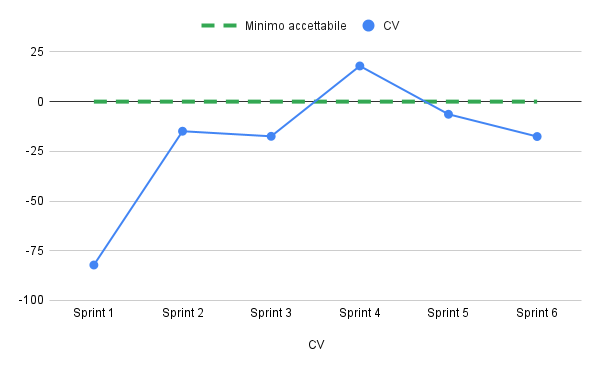
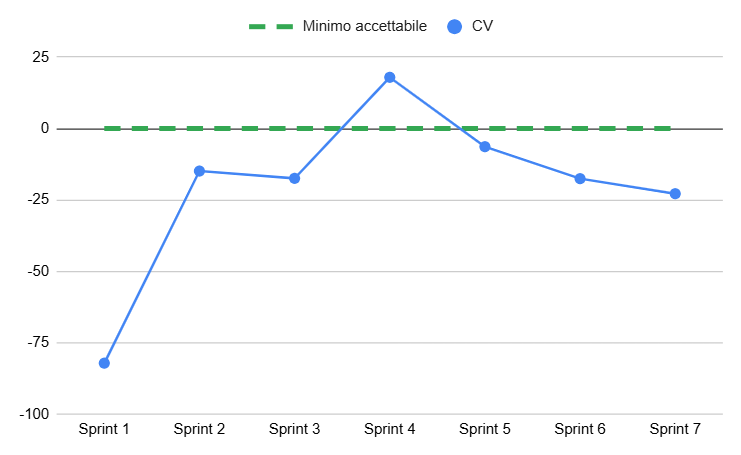
Piano di qualifica - 185 (#199)
* change: aggiornati grafici

* change: changelog, titlepage

* change: aggiunta versione ai documenti

* change: aggiornati commenti

* change: correzione

* Change: add nome vericicatore e update titlepage

---------

diff --git a/Docs/Generali/piano_di_qualifica/05_resoconto.tex b/Docs/Generali/piano_di_qualifica/05_resoconto.tex
@@ -1,7 +1,7 @@
 \newcommand{\Met}[3]{
     \subsubsection{#1}
     \begin{figure}[h!] \centering
-        \includegraphics[scale=0.55]{#2}
+        \includegraphics[scale=0.75]{#2}
         \caption{Proiezione della#1nei vari periodi di progetto}
     \end{figure}
     \subsubsection*{RTB}
@@ -13,9 +13,8 @@
 
 \subsection{Verifica della qualità dei processi}
 In questa sezione sono presentati i risultati dell'attività di verifica svolta per valutare la qualità del processo.\\
-Le misure riportate sono state calcolate utilizzando le formule e i concetti descritti nel documento \textit{Norme di progetto}, oltre ai dati definiti nel documento \textit{Piano di progetto}.
-
-In seguito sono presentati i grafici relativi a diverse metriche significative del processo nei vari sprint.
+Le misure riportate sono state calcolate utilizzando le formule e i concetti descritti nel documento \textit{Norme di progetto v1.0.0}, oltre ai dati definiti nel documento \textit{Piano di progetto v1.0.0}.\\
+Di seguito sono presentati i grafici relativi a diverse metriche significative del processo nei vari sprint.
 
 \Met
 { % METRICA
@@ -37,7 +36,7 @@ In seguito sono presentati i grafici relativi a diverse metriche significative d
     template/images/AC.png
 }
 { % DESCRIZIONE RTB
-    Come il grafico fa notare il confronto con il Planned Value rivela una forte correlazione, suggerendo che le ore e i costi effettivamente impiegati per ogni ruolo sono in linea con le previsioni iniziali.
+    Come si nota dal grafico, Actual Cost e Planned Value hanno una forte correlazione, suggerendo che le ore e i costi effettivamente impiegati per ogni ruolo sono in linea con le previsioni iniziali.
     Ciò indica una pianificazione accurata e una buona esecuzione del progetto.
 }
 
@@ -51,7 +50,7 @@ In seguito sono presentati i grafici relativi a diverse metriche significative d
 { % DESCRIZIONE RTB
     Questo grafico illustra solamente il valore di Earned Value che rappresenta il valore delle attività realizzate nel progetto.
     Da solo rientra tra i valori limite, e rappresenta un valor positivo, ma spesso viene messo a confronto con le altre metriche.
-    Analizzando quindi i 3 grafici di Earned Value, Planned Value e Actual Cost si può notare come siano tutti allineati. 
+    Analizzando quindi i tre grafici di Earned Value, Planned Value e Actual Cost, si può notare come siano tutti allineati. 
     Questo indica una gestione del progetto accurata, con una precisa corrispondenza tra le attività pianificate, quelle effettivamente svolte e i costi sostenuti.
 }
 
@@ -88,8 +87,10 @@ In seguito sono presentati i grafici relativi a diverse metriche significative d
     template/images/CV.png
 }
 { % DESCRIZIONE RTB
-    L'analisi del grafico evidenzia una sovrastima iniziale delle ore necessarie per completare le attività.
-    Con il progredire del progetto, il team ha affinato le proprie stime, acquisendo una maggiore consapevolezza dei tempi di esecuzione e delle competenze individuali.
+    Una Cost Variance negativa indica che il progetto sta spendendo più di quanto previsto. 
+    Ciò è dovuto principalmente al fatto che i ruoli più ricoperti sono quelli di responsabile, 
+    amministratore, e analista che hanno un costo orario superiore alla media.
+    Infatti, nello sprint 4, in cui è stato realizzato il PoC dai programmatore, la Cost Variance è stata positiva.
 }
 
 \Met
@@ -126,7 +127,7 @@ In seguito sono presentati i grafici relativi a diverse metriche significative d
 { % DESCRIZIONE RTB
     Il grafico mostra un iniziale Requirements Stability Index del 100\% in quanto nei primi due periodi il team si è
     concentrato sulla creazione e successivo aggiornamento di un WoW. 
-    È stato solo dal terzo sprint in poi che il team ha iniziato ad analizzare e successivamente raffinare i requisiti, rendendoli più chiari e comprensibili per facilitare le successive fasi di progettazione.
+    È stato solo dal terzo sprint in poi che il team ha iniziato a definire i requisiti.
 }
 
 \Met
@@ -138,7 +139,7 @@ In seguito sono presentati i grafici relativi a diverse metriche significative d
 }
 { % DESCRIZIONE RTB  
     Come mostrato dal grafico il team ha raramente avuto problemi riguardanti la completezza dei documenti.
-    Si può notare che solamente durante lo sprint 3 il team ha avuto delle difficoltà nella redazione del documento \textit{Analisi dei requisiti}.
+    Si può notare che solamente durante lo sprint 3 il team ha avuto delle difficoltà nella redazione del documento \textit{Analisi dei requisiti v1.0.0}.
     In ogni caso, tutti i membri si sono impegnati al massimo per garantire il completamento delle attività assegnate.
 }
 
@@ -152,6 +153,7 @@ In seguito sono presentati i grafici relativi a diverse metriche significative d
 { % DESCRIZIONE RTB
     Come mostra il grafico, l'iniziale carenza di competenze ha limitato la capacità del team di soddisfare tutte le metriche.
     Grazie all'apprendimento continuo e all'introduzione di strumenti automatizzati, il team ha colmato queste lacune apportando delle migliorie ai vari documenti.
+    L'unica metrica non soddisfatta attualmente è MPC6 - Cost Variance.
 }
 
 \Met
@@ -162,15 +164,15 @@ In seguito sono presentati i grafici relativi a diverse metriche significative d
     template/images/RISCHI.png
 }
 { % DESCRIZIONE RTB
-    Il grafico evidenzia una notevole stabilità dei rischi non previsti durante l'intero progetto.
-    Questo è ovviamente un ottimo segno in quanto indica che il gruppo è stato in grado di gestire i rischi in modo efficace e che non sono 
-    emersi nuovi rischi inaspettati.
+    Il grafico evidenzia l'assenza di rischi non previsti durante l'intero progetto.
+    Questo è ovviamente un buon segno in quanto indica che il gruppo è stato in grado 
+    di gestire i rischi in modo efficace e che non sono emersi nuovi rischi inaspettati.
 }
 
 \subsection{Verifica della qualità dei prodotti}
 In questa sezione vengono analizzate le attività svolte per garantire la qualità dei prodotti realizzati.
- Le analisi effettuate comprendono sia i documenti che il software, al fine di garantire un risultato finale che soddisfi i requisiti stabiliti.\\
-Per calcolare le seguenti misure abbiamo utilizzato le formule e le nozioni descritte nel documento di \textit{Norme di progetto}.
+Le analisi effettuate comprendono sia i documenti che il software, al fine di garantire un risultato finale che soddisfi i requisiti stabiliti.\\
+Per calcolare le seguenti misure abbiamo utilizzato le formule e le nozioni descritte nel documento di \textit{Norme di progetto v1.0.0}.
 
 \Met
 { % METRICA
@@ -180,8 +182,10 @@ Per calcolare le seguenti misure abbiamo utilizzato le formule e le nozioni desc
     template/images/GUL.png
 }
 { % DESCRIZIONE RTB
-    L'analisi del grafico conferma che, nelle prime fasi del progetto, l'Indice di Gulpease non ha raggiunto i valori minimi, a causa della mancanza di conoscenze specifiche da parte del team.
-    Solo dopo aver implementato un'automazione per il calcolo dell'indice, è stato possibile migliorarne i risultati nei periodi successivi.
+    L'analisi del grafico conferma che, nelle prime fasi del progetto, l'Indice di Gulpease non ha raggiunto i 
+    valori minimi, a causa della mancanza di conoscenze specifiche da parte del team.
+    Solo dopo aver implementato un'automazione per il calcolo dell'indice, è stato possibile 
+    migliorarne i risultati nei periodi successivi.
 }
 
 \Met
@@ -192,8 +196,10 @@ Per calcolare le seguenti misure abbiamo utilizzato le formule e le nozioni desc
     template/images/ERR-G.png
 }
 { % DESCRIZIONE RTB
-    L'analisi del grafico rivela un numero inizialmente elevato di errori ortografici, in particolare nei documenti \textit{Norme di progetto} e \textit{Piano di progetto}.
-    Tuttavia, si osserva una netta diminuzione di tali errori nei periodi e nei documenti successivi, indicando un miglioramento progressivo nella qualità della scrittura.
+    L'analisi del grafico rivela un numero inizialmente elevato di errori ortografici, 
+    in particolare nei documenti \textit{Norme di progetto v1.0.0} e \textit{Piano di progetto v1.0.0}.
+    Tuttavia, si osserva una netta diminuzione di tali errori nei periodi e nei 
+    documenti successivi, indicando un miglioramento progressivo nella qualità della scrittura.
 }
 
 

diff --git a/Docs/Generali/piano_di_qualifica/titlepage.tex b/Docs/Generali/piano_di_qualifica/titlepage.tex
@@ -17,12 +17,12 @@
 	\rule{0.6\textwidth}{0.4pt}
 	\\[0.5cm]
 	\begin{tabular}{r|l}
-		\textbf{Versione} & 0.10.0\\
+		\textbf{Versione} & 0.11.0\\
 		\textbf{Stato} & in redazione\\
 		\textbf{Uso} & Esterno\\                         
 		\textbf{Approvazione} & -\\                      
-		\textbf{Verifica} & Soranzo Andrea\\ & Chilese Elena\\ & Pincin Matteo \\                         
-		\textbf{Redazione} & Diviesti Filippo \\ & Bergamin Elia \\ & Djossa Edgar \\ & Soranzo Andrea \\ & Pincin Matteo \\ 
+		\textbf{Verifica} & Soranzo Andrea\\ & Chilese Elena\\ & Pincin Matteo \\ & Djossa Edgar\\                         
+		\textbf{Redazione} & Diviesti Filippo \\ & Bergamin Elia \\ & Djossa Edgar \\ & Soranzo Andrea \\ & Pincin Matteo \\ & Chilese Elena\\ 
 		\textbf{Distribuzione} & \textit{Six Bit Busters} \\ & Prof. Vardanega Tullio \\ & Prof. Cardin Riccardo \\ & \textit{Sanmarco Informatica S.p.A.}
 	\end{tabular}	
 	\\[0.8cm]

diff --git a/Docs/Generali/piano_di_qualifica/config/changelog_input.tex b/Docs/Generali/piano_di_qualifica/config/changelog_input.tex
@@ -1,5 +1,6 @@
 % Insert changelog values here
 \changelogTable{
+	0.11.0 & 02-03-2025 & Bergamin Elia & Resoconto attività di verifica & Djossa Edgar \\
 	0.10.0 & 21-02-2025 & Pincin Matteo & Resoconto attività di verifica & Chilese Elena \\
 	0.9.0 & 27-01-2025 & Chilese Elena & Revisione documento & Pincin Matteo \\
 	0.8.0 & 26-01-2025 & Soranzo Andrea & Revisione test & Chilese Elena \\
